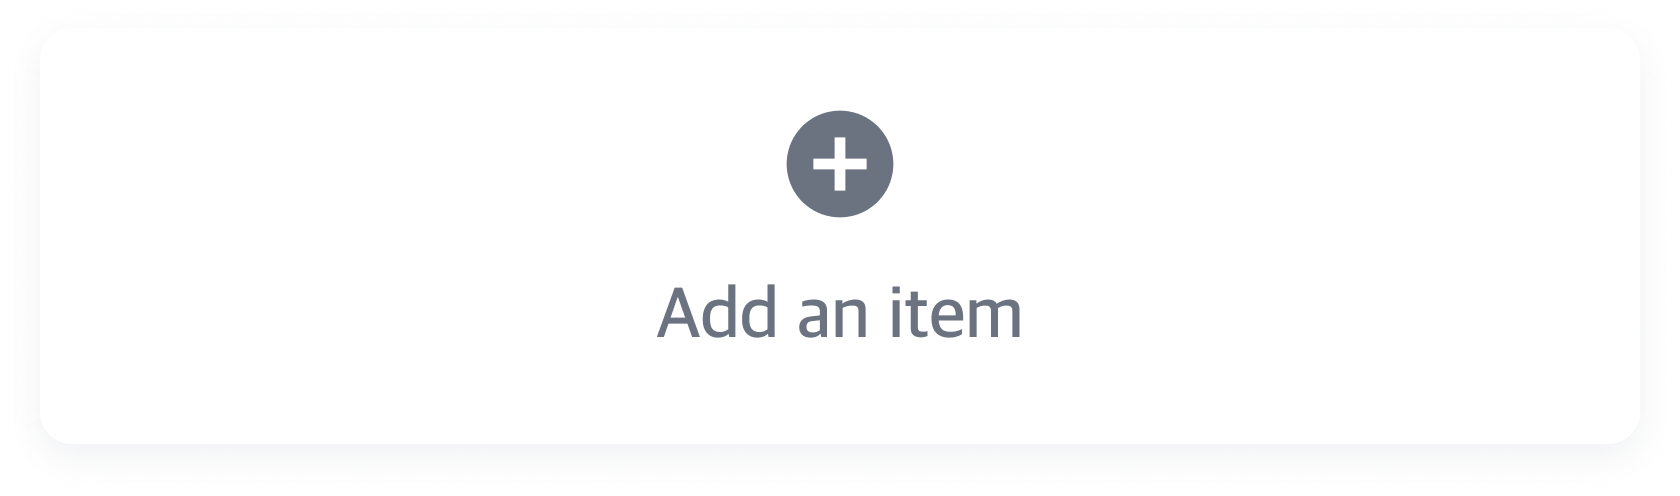
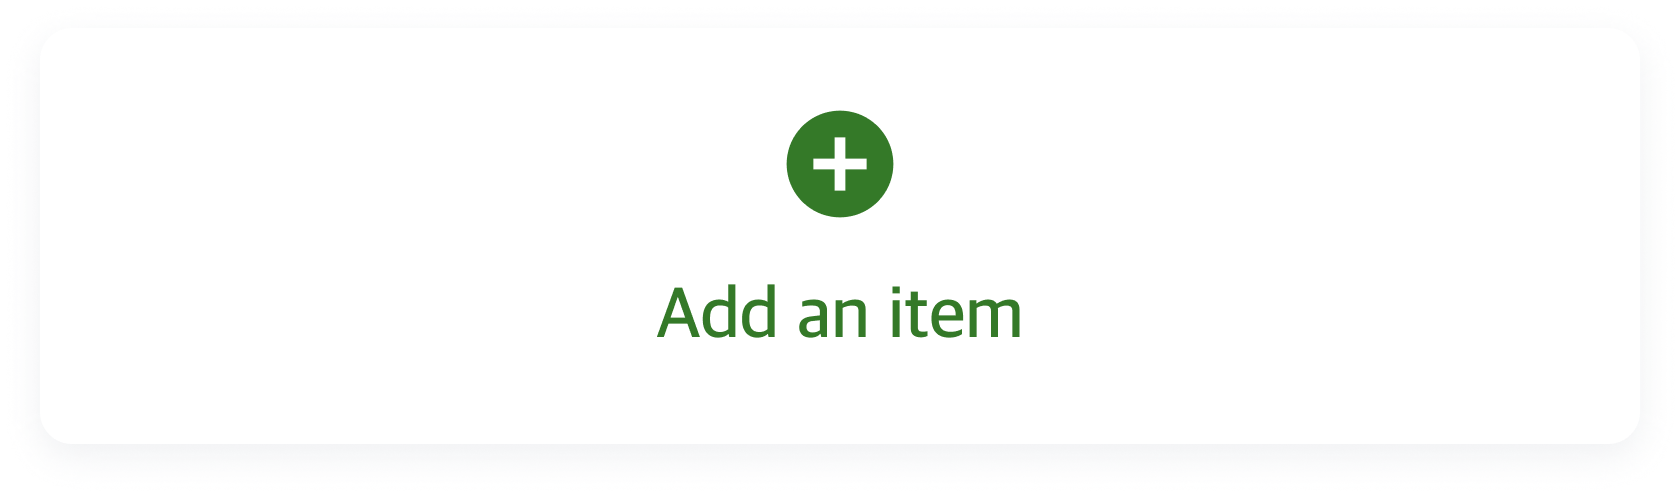
refactor: add colors to the overall design

Changed region(s): [[0.3714, 0.5746, 0.619, 0.6956], [0.4643, 0.2117, 0.5571, 0.4536]]

diff --git a/index.html b/index.html
@@ -28,7 +28,7 @@
             </div>
             <div class="bottom">
                 <a href='create-list.html'>
-                    <img class="add" src="add.png" alt="add">
+                    <img class="add" src="./images/index/add-list.png" alt="add">
                 </a>
                 <img class="tag" src="tag.png" alt="tag">
                 <img class="profile" src="profile.png" alt="profile">
@@ -46,15 +46,15 @@
                 </header>
                 <div class="welcome">
                     <span>Share your list, <br> Get on the SamePage</span>
-                    <img class="logo" src="logo.png" alt='Same Page logo'>
+                    <img class="logo" src="./images/index/logo.png" alt='Same Page logo'>
                 </div>
             </div>
             <div class="tooltip">
-                <img src="ToolTip.png" alt="tooltip">
+                <img src="./images/index/tooltip.png" alt="tooltip">
             </div>
             <div class="bottom">
                 <a href='create-list.html'>
-                    <img class="add" src="add.png" alt="add">
+                    <img class="add" src="./images/index/add-list.png" alt="add">
                 </a>
                 <img class="tag" src="tag.png" alt="tag">
                 <img class="profile" src="profile.png" alt="profile">

diff --git a/styles/index.css b/styles/index.css
@@ -6,7 +6,7 @@ body {
     display: flex;
     flex-direction: column;
     align-items: center;
-    background-color: #E5E7EB;
+    background-color: #F3F4F6;
     margin: 0;
 }
 
@@ -65,7 +65,7 @@ header img {
     justify-content: center;
     align-items: center;
     padding: 16px;
-    background-color: #D1D5DB;
+    background-color: #C0EBA6;
     border-radius: 8px;
     width: 368px;
 }
@@ -86,7 +86,7 @@ header img {
 .listItemNumberCounter {
     display: flex;
     font-size: 1.75rem;
-    color: #6B7280;
+    color: #347928;
 }
 
 .listItemContentBottom {
@@ -147,7 +147,7 @@ header img {
     justify-items: center;
     text-align: center;
     position: relative;
-    background-color: rgb(217, 215, 215);
+    background-color: #E5E7EB;
     z-index: 1;
 }
 

diff --git a/create-list.html b/create-list.html
@@ -31,7 +31,7 @@
         </div>
         <div class='shopping-item'>
           <div class='item-header'>
-            <img src='./images/create-list/check-box-empty.png' alt='button for adding an item' />
+            <img class='checkbox' src='./images/create-list/check-box-empty.png' alt='button for adding an item' />
             argula
           </div>
           <img src='./images/create-list/delete-circle-button.png' alt='button for deleting an item' />

diff --git a/welcome.html b/welcome.html
@@ -48,7 +48,7 @@
             </div>
             <h1 id="sentence">Welcome to SamePage!</h1>
             <div class="overflow-hidden">
-                <img class="logo" src="logo.png" alt="">
+                <img class="logo" src="./images/index/logo.png" alt="">
             </div>
             <a href="login.html" class="btn btn-warning" role="button">Log in</a>
         </div>

diff --git a/scripts/firebase.js b/scripts/firebase.js
@@ -1,7 +1,5 @@
-
-
- // Your web app's Firebase configuration
-  // For Firebase JS SDK v7.20.0 and later, measurementId is optional
+// Your web app's Firebase configuration
+// For Firebase JS SDK v7.20.0 and later, measurementId is optional
   const firebaseConfig = {
     apiKey: "AIzaSyDLzHDBsObO3YfM0k-JPfg98e1TTfLqy0E",
     authDomain: "bby27---samepage.firebaseapp.com",

diff --git a/styles/create-list.css b/styles/create-list.css
@@ -95,7 +95,7 @@ body {
     justify-content: center;
     align-items: center;
     gap: 10px;
-    color: #6B7280;
+    color: #347928;
 }
 
 .item-add-button img {
